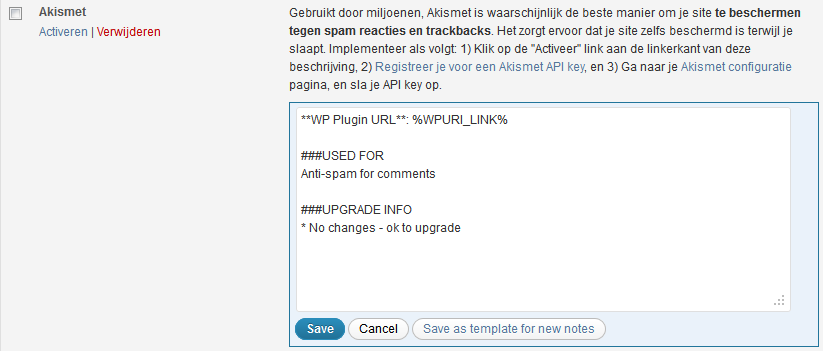
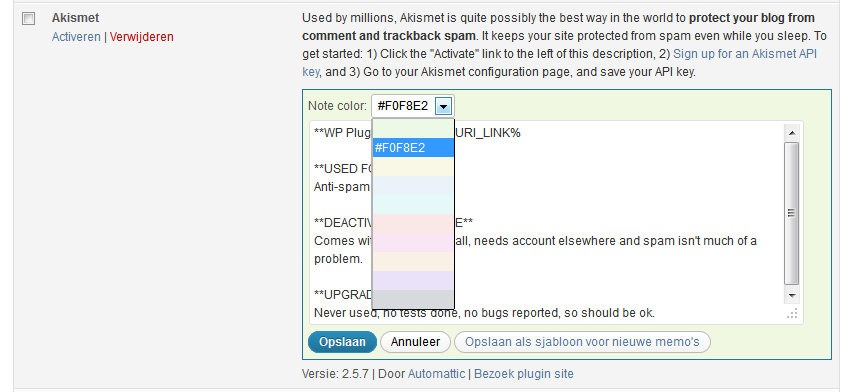
Version 1.6
#### New features:
* Choose the background color for the note

diff --git a/plugin-notes.js b/plugin-notes.js
@@ -49,6 +49,11 @@ function save_plugin_note( plugin_name ) {
 	// Get form values
 	var _nonce = jQuery('input[name=wp-plugin_notes_nonce]').val();
 	var plugin_slug = jQuery('input[name=wp-plugin_note_slug_'+plugin_name+']').val();
+	var plugin_note_color = jQuery('#wp-plugin_note_color_'+plugin_name).val();
+	
+//$('select.foo option:selected').val();    // get the value from a dropdown select
+//$('select.foo').val();
+
 	var plugin_new_template = jQuery('input[name=wp-plugin_note_new_template_'+plugin_name+']').val();
 	var plugin_note = note_elements.form.input.val();
 	
@@ -61,6 +66,7 @@ function save_plugin_note( plugin_name ) {
 	post.plugin_name = plugin_name;
 	post.plugin_note = plugin_note;
 	post.plugin_slug = plugin_slug;
+	post.plugin_note_color = plugin_note_color;
 	post.plugin_new_template = plugin_new_template;
 	post._nonce = _nonce;
 
@@ -110,7 +116,6 @@ function plugin_note_saved ( xml, note_elements ) {
 		jQuery('#wp-plugin_note_'+note_elements.name+' span.wp-plugin_note a').each(function(){
 			jQuery(this).attr( 'target', '_blank' );
 		});
-
 	}
 	/**
 	 * Update *all* empty notes with the new template after save_template action

diff --git a/plugin-notes.php b/plugin-notes.php
@@ -3,7 +3,7 @@
 Plugin Name: Plugin Notes
 Plugin URI: http://wordpress.org/extend/plugins/plugin-notes/
 Description: Allows you to add notes to plugins. Simple and sweet.
-Version: 1.5
+Version: 1.6
 Author: Mohammad Jangda
 Author URI: http://digitalize.ca/
 Contributor: Juliette Reinders Folmer
@@ -46,25 +46,39 @@ if ( !class_exists( 'plugin_notes' ) ) {
 		var $nonce_added = false;
 
 		var $allowed_tags = array(
-				'a' => array(
-					'href' => array(),
-					'title' => array(),
-					'target' => array(),
-				),
-				'br' => array(),
-				'p' => array(),
-				'b' => array(),
-				'strong' => array(),
-				'i' => array(),
-				'em' => array(),
-				'u' => array(),
-				'img' => array(
-					'src' => array(),
-					'height' => array(),
-					'width' => array(),
-				),
-				'hr' => array(),
-			);
+			'a' => array(
+				'href' => array(),
+				'title' => array(),
+				'target' => array(),
+			),
+			'br' => array(),
+			'p' => array(),
+			'b' => array(),
+			'strong' => array(),
+			'i' => array(),
+			'em' => array(),
+			'u' => array(),
+			'img' => array(
+				'src' => array(),
+				'height' => array(),
+				'width' => array(),
+			),
+			'hr' => array(),
+		);
+		
+		var $boxcolors = array(
+			'#EBF9E6', // light green
+			'#F0F8E2', // lighter green
+			'#F9F7E6', // light yellow
+			'#EAF2FA', // light blue
+			'#E6F9F9', // brighter blue
+			'#F9E8E6', // light red
+			'#F9E6F4', // light pink
+			'#F9F0E6', // earth
+			'#E9E2F8', // light purple
+			'#D7DADD', // light grey
+		);
+		var $defaultcolor	= '#EAF2FA';
 
 		function plugin_notes() {
 			$this->__construct();
@@ -183,6 +197,9 @@ if ( !class_exists( 'plugin_notes' ) ) {
 
 				$note_author = get_userdata($note['user']);
 				$note_date = $note['date'];
+				
+				$note_color = ( ( isset( $note['color'] ) && $note['color'] !== '' ) ? $note['color'] : $this->defaultcolor );
+
 				$actions[] = '<a href="#" onclick="edit_plugin_note(\''. esc_attr( $plugin_safe_name ) .'\'); return false;" id="wp-plugin_note_edit'. esc_attr( $plugin_safe_name ) .'" class="edit">'. __('Edit note', 'plugin-notes') .'</a>';
 				$actions[] = '<a href="#" onclick="delete_plugin_note(\''. esc_attr( $plugin_safe_name ) .'\'); return false;" id="wp-plugin_note_delete'. esc_attr( $plugin_safe_name ) .'" class="delete">'. __('Delete note', 'plugin-notes') .'</a>';
 			}
@@ -192,7 +209,10 @@ if ( !class_exists( 'plugin_notes' ) ) {
 				$filtered_note_text = $note_text = '';
 				$note_author = null;
 				$note_date = '';
+				$note_color = $this->defaultcolor;
 			}
+			
+			$note_color_style = ( ( $note_color !== $this->defaultcolor ) ? ' style="background-color: ' . $note_color . ';"' : '' );
 
 			$output = '
 			<div id="wp-plugin_note_' . esc_attr( $plugin_safe_name ) . '" ondblclick="edit_plugin_note(\'' . esc_attr( $plugin_safe_name ) . '\');" title="Double click to edit me!">
@@ -209,8 +229,8 @@ if ( !class_exists( 'plugin_notes' ) ) {
 
 			// Add the form to the note
 			$output = '
-			<div class="' . $note_class . '">
-				' . $this->_add_plugin_form($note_text, $plugin_safe_name, $plugin_file, true, false) .
+			<div class="' . $note_class . '"' . $note_color_style . '>
+				' . $this->_add_plugin_form($note_text, $note_color, $plugin_safe_name, $plugin_file, true, false) .
 				$output . '
 			</div>';
 
@@ -225,7 +245,7 @@ if ( !class_exists( 'plugin_notes' ) ) {
 		/**
 		 * Outputs form to add/edit/delete a plugin note
 		 */
-		function _add_plugin_form ( $note = '', $plugin_safe_name, $plugin_file, $hidden = true, $echo = true ) {
+		function _add_plugin_form ( $note = '', $note_color, $plugin_safe_name, $plugin_file, $hidden = true, $echo = true ) {
 			$plugin_form_style = ($hidden) ? 'style="display:none"' : '';
 
 			$new_note_class = '';
@@ -236,6 +256,20 @@ if ( !class_exists( 'plugin_notes' ) ) {
 
 			$output = '
 			<div id="wp-plugin_note_form_' . esc_attr( $plugin_safe_name ) . '" class="wp-plugin_note_form" ' . $plugin_form_style . '>
+				 <label for="wp-plugin_note_color_' . esc_attr( $plugin_safe_name ) . '">' . __( 'Note color:', 'plugin-notes') . '
+				 <select name="wp-plugin_note_color_' . esc_attr( $plugin_safe_name ) . '" id="wp-plugin_note_color_' . esc_attr( $plugin_safe_name ) . '">
+			';
+			
+			// Add color options
+			foreach( $this->boxcolors as $color ){
+				$output .= '
+					<option value="' . $color . '" style="background-color: ' . $color . '; color: ' . $color . ';"' .
+					( ( $color === $note_color ) ? ' selected="selected"' : '' ) .
+					'>' . $color . '</option>';
+			}
+
+			$output .= '
+				</select></label>
 				<textarea name="wp-plugin_note_text_' . esc_attr( $plugin_safe_name ) . '" cols="90" rows="10"' . $new_note_class . '>' . esc_textarea( $note ) . '</textarea>
 				<span class="wp-plugin_note_error error" style="display: none;"></span>
 				<span class="wp-plugin_note_success success" style="display: none;"></span>
@@ -286,6 +320,7 @@ if ( !class_exists( 'plugin_notes' ) ) {
 				// Get notes array
 				$notes = $this->_get_notes();
 				$note_text = wp_kses( stripslashes( trim( $_POST['plugin_note'] ) ), $this->allowed_tags );
+				$note_color = ( isset( $_POST['plugin_note_color'] ) && in_array( $_POST['plugin_note_color'], $this->boxcolors ) ? $_POST['plugin_note_color'] : $this->defaultcolor );
 				// TODO: Escape this?
 				$plugin = $_POST['plugin_slug'];
 				$plugin_name = esc_html($_POST['plugin_name']);
@@ -315,6 +350,7 @@ if ( !class_exists( 'plugin_notes' ) ) {
 						$note['date'] = date($date_format);
 						$note['user'] = $current_user->ID;
 						$note['note'] = $note_text;
+						$note['color'] = $note_color;
 
 						// Add new note to notes array
 						$notes[$plugin] = $note;
@@ -352,7 +388,6 @@ if ( !class_exists( 'plugin_notes' ) ) {
 				die( __( 'Sorry, you do not have permission to edit plugins.', PLUGIN_NOTES_BASENAME ) );
 				return;
 			}
-
 		}
 
 
